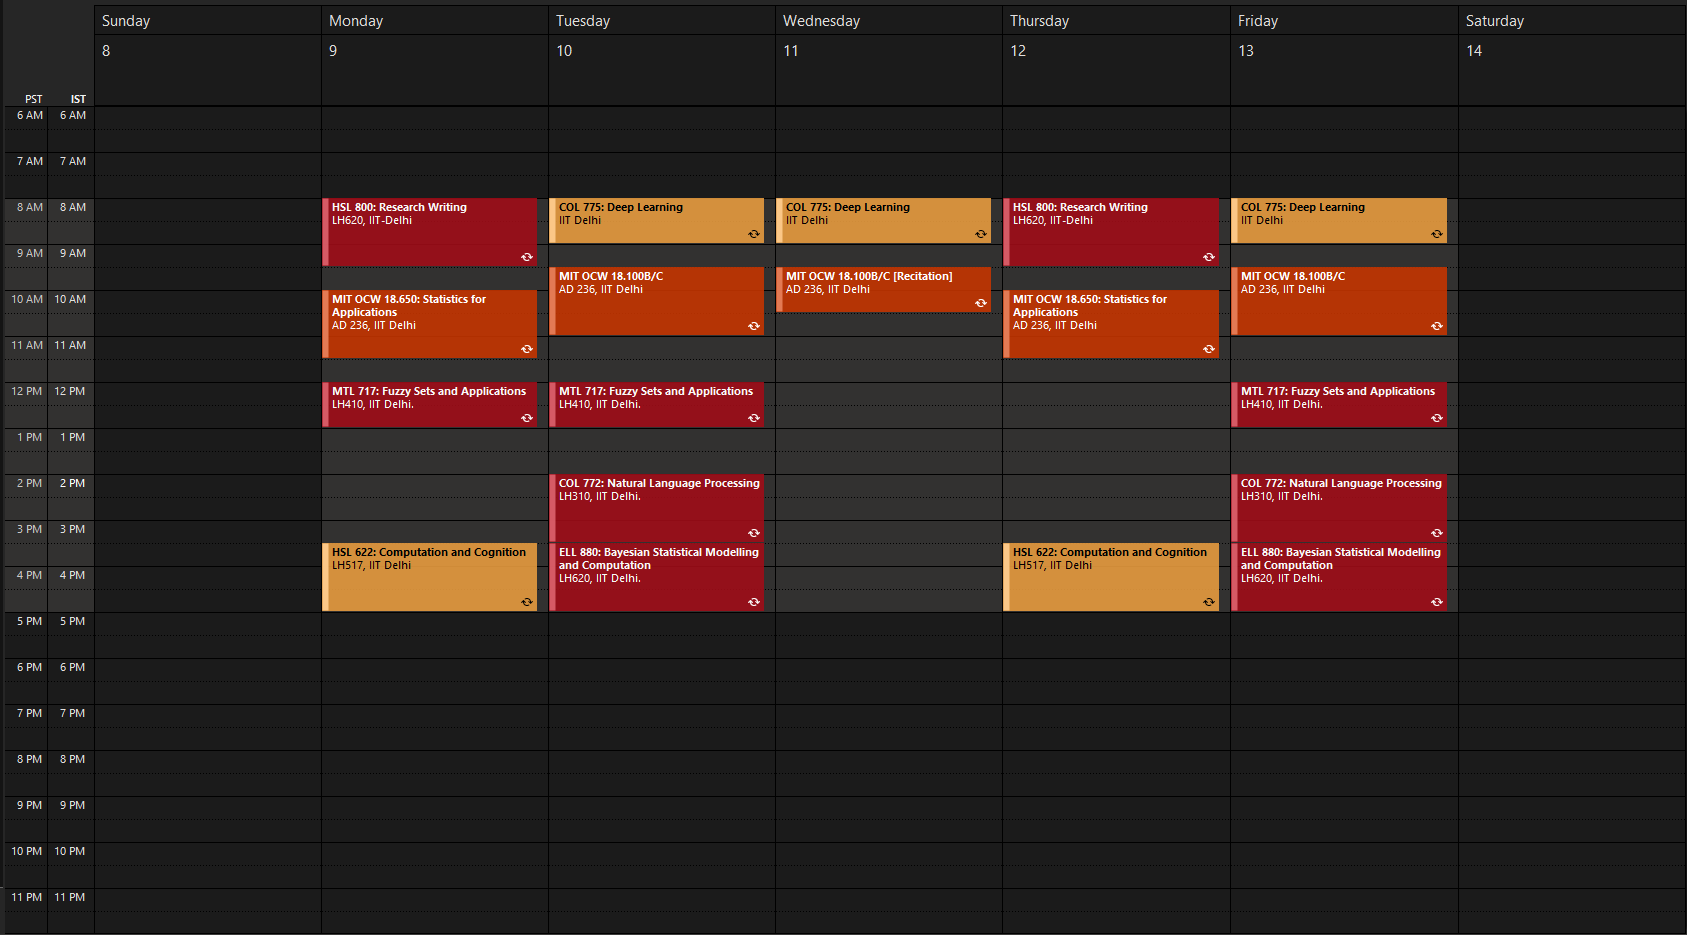
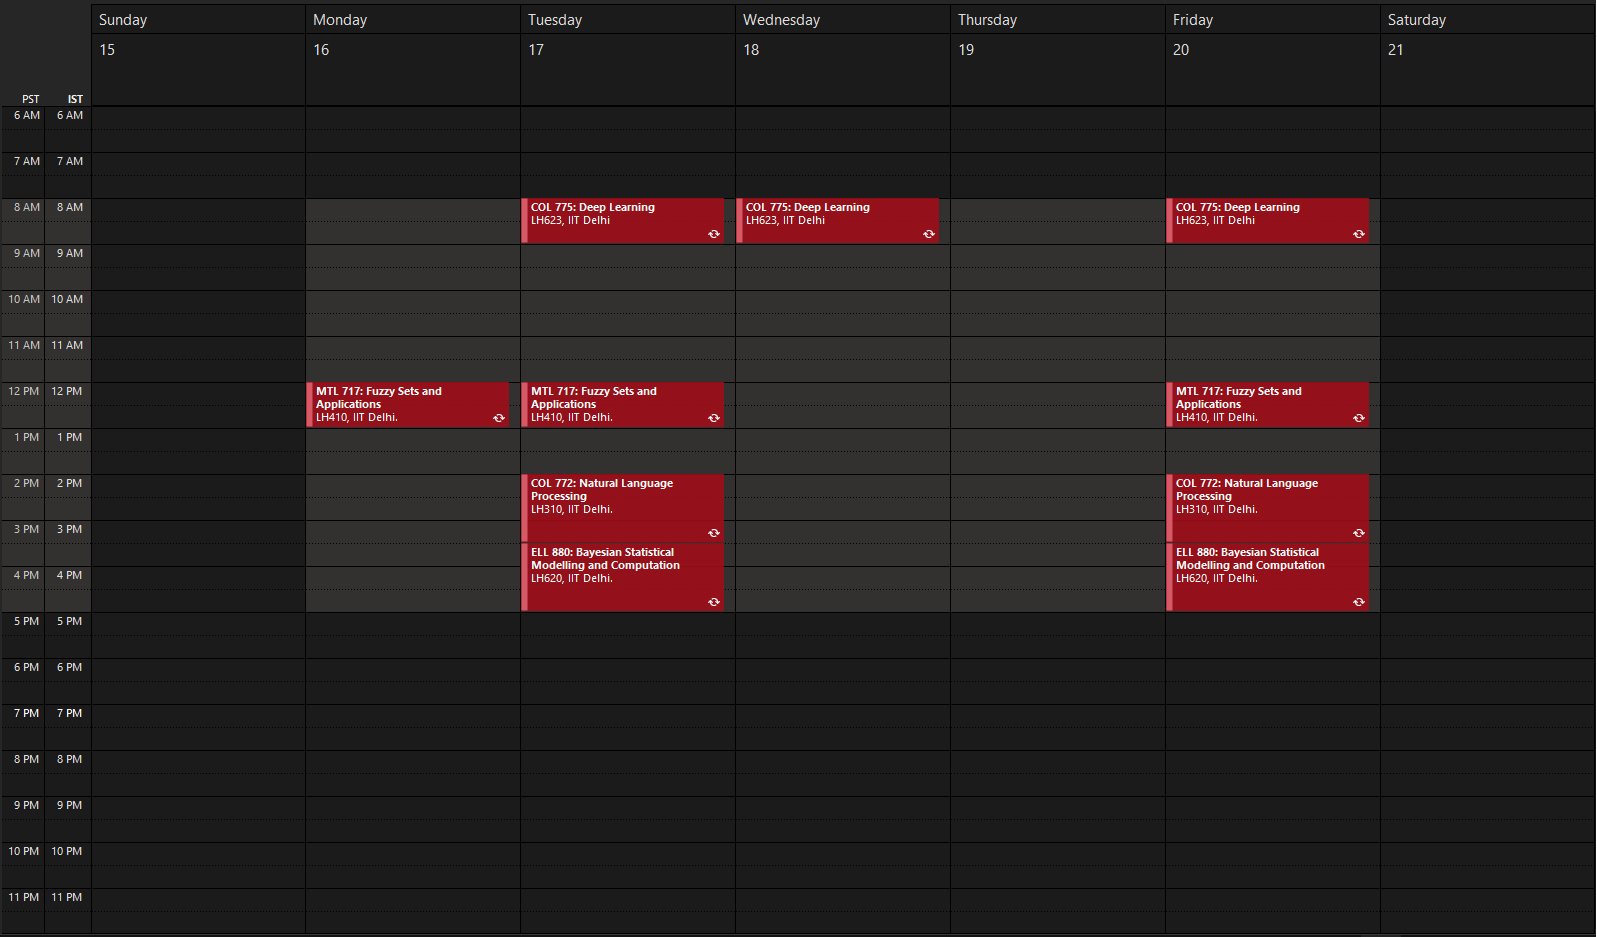
docs: update plan for sem-II @ IIT Delhi

diff --git a/essays/plan-sem-2.html b/essays/plan-sem-2.html
@@ -88,19 +88,32 @@
 						</li>
 					</ul>
 				</p>
-                <p class="lead">
+				<p class="lead">
 					Courses for self-study:
 					<ul>
-						<li class="lead">
+						<li class="lead text-decoration-line-through">
 							MIT OCW 18.650: Statistics for Application
 							&nbsp;<i class="bi bi-hourglass-split hourglass-color"></i>
 						</li>
-						<li class="lead">
+						<li class="lead text-decoration-line-through">
 							MIT OCW 18.100B/C: Real Analysis
 							&nbsp;<i class="bi bi-hourglass-split hourglass-color"></i>
 						</li>
-						<li class="lead">
+						<li class="lead text-decoration-line-through">
 							Complete C++ Primer (... continued from <a href="./plan-dec-2022.html">Dec 2022's plan</a>)
+							&nbsp;<i class="bi bi-hourglass-split hourglass-color"></i>
+						</li>
+					</ul>
+				</p>
+				<p class="lead">
+					Sit-through courses:
+					<ul>
+						<li class="lead text-decoration-line-through">
+							HSL 622: Computation and Cognition
+							&nbsp;<i class="bi bi-hourglass-split hourglass-color"></i>
+						</li>
+						<li class="lead text-decoration-line-through">
+							HSL 651: Philosophy of Mind and Cognition
 							&nbsp;<i class="bi bi-hourglass-split hourglass-color"></i>
 						</li>
 					</ul>
@@ -125,21 +138,21 @@
 						<figure class="figure d-flex flex-column align-items-center">
 							<img src="./img/sem-2-iitd-calendar.png" alt="Semester-II Schedule (IIT Delhi)" class="figure-img img-thumbnail img-fluid rounded" width="80%">
 							<figcaption class="figure-caption px-4">
-								<span class="fs-6">The red-tiles are enrolled courses, the yellow-tiles are sit-though courses, and the orange-tiles are self-study courses.</span>
+								<span class="fs-6">The red-tiles are enrolled courses</span>
 							</figcaption>
 						</figure>
 					</div>
 
-					<p class="lead">
+					<p class="lead text-decoration-line-through">
 						Now, I know what you must be thinking... Maybe I'm repeating the same mistake again. I'm stacking too much in my plate! But the way I look at it is as follows:
 						<ul>
-							<li class="lead">
+							<li class="lead text-decoration-line-through">
 								I'm only effectively studying five subjects - I don't think research writing will takeup too much of my time; and with all the sit-through courses, I can cherry pick interesting/useful topics and ignore the rest.
 							</li>
-							<li class="lead">
+							<li class="lead text-decoration-line-through">
 								All throughout my 1st semester, I would roam the campus searching for a place to study. Now that, that problem has been solved, I won't be wasting time wandering the halls of IIT Delhi.
 							</li>
-							<li class="lead">
+							<li class="lead text-decoration-line-through">
 								I spent a large part of my first semester: dealing with COVID-induced confusion, grappling with emotional baggage, settling down in a new place, setting up my work environment, and coming to terms with my new outlook towards life & people. My mind was too pre-occupied to focus on my research; Now I know the way forward!
 							</li>
 						</ul>
@@ -174,7 +187,12 @@
 				</div>
 				<div class="col-11 offset-1 mt-3">
 					<p class="lead">
-						<b>[8 Jan, 2022]</b>: I've decided to skip all the Cognitive Science sit-through courses. I don't think I'll be able to invest the required amount effort with these courses (<small class="text-muted">especially, now that COL775 is no-longer sit-through but an enrolled course!</small>) to make the time that I am spending on them, beneficial.
+						<b>[8 Jan, 2022]</b>: I've decided to postpone all the Cognitive Science sit-through courses. I don't think I'll be able to invest the required amount effort with these courses (<small class="text-muted">especially, now that COL775 is no-longer sit-through but an enrolled course!</small>) to make the time that I am spending on them, beneficial.
+					</p>
+				</div>
+				<div class="col-11 offset-1 mt-3">
+					<p class="lead">
+						<b>[9 Jan, 2022]</b>: I've decided to postpone all the self-study courses. I am being over ambitious, I should [properly] complete what's already on the plate before I start piling additional dishes! I've decided to only the enrolled subjects and do them well.
 					</p>
 				</div>
 			</div>
